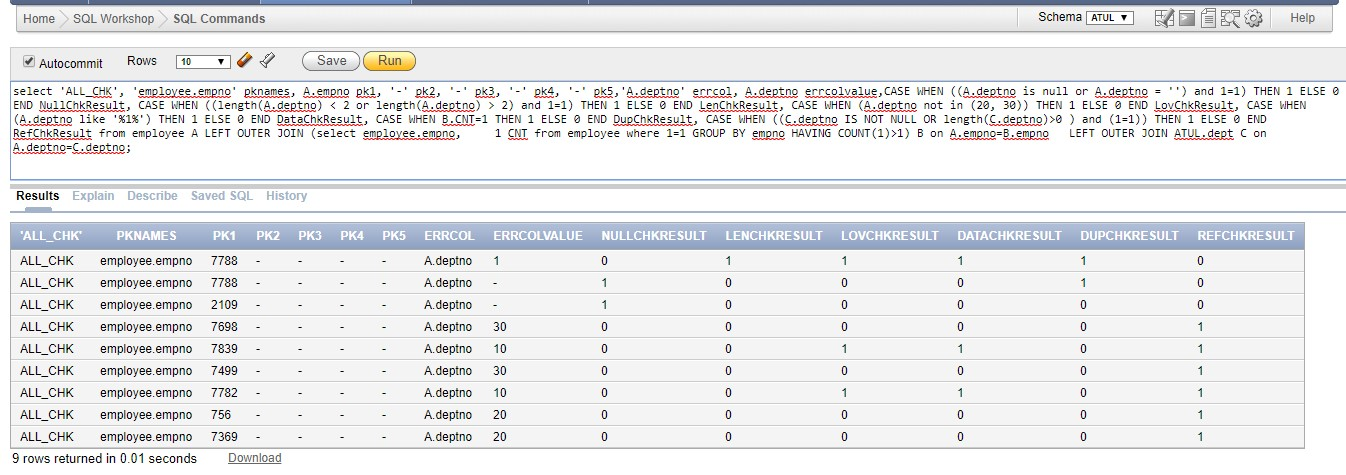
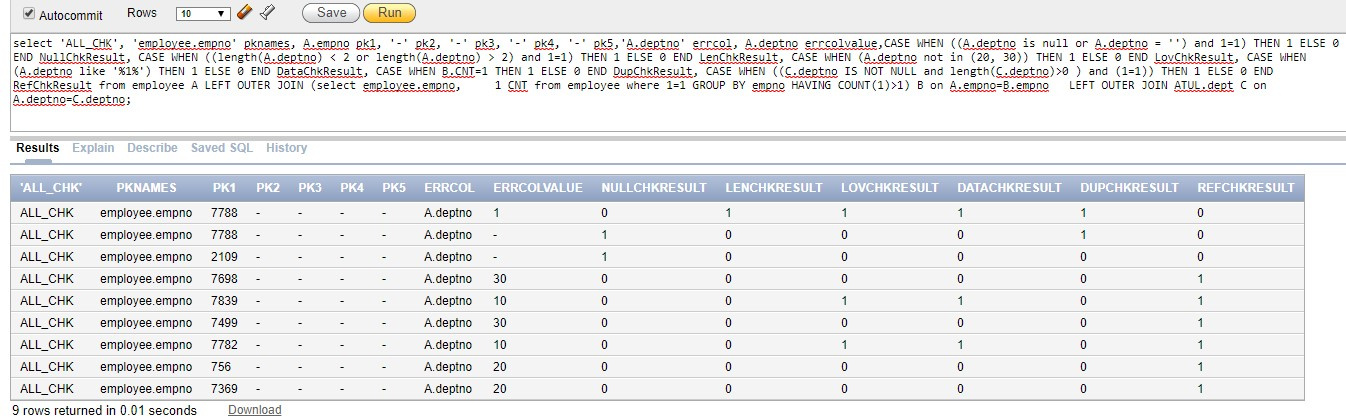
c

diff --git a/DataQuality/Final_Code/AllChk.py b/DataQuality/Final_Code/AllChk.py
@@ -104,7 +104,7 @@ def RefChkCase(RefChk,RefFtrRule, errcol, LkpTblNm, LkpTblKeyCustSQL, LkpCustSQL
         return -1
     else:
         RefFtrRule = '1=1' if len(RefFtrRule)==0 else RefFtrRule
-        ref_Case =  'CASE WHEN (('+tabAlias+"."+LkpTblKeyCustSQL+' IS NOT NULL OR length('+tabAlias+"."+LkpTblKeyCustSQL+")>0 ) and ("+RefFtrRule+")) THEN 1 ELSE 0 END" if LkpCustSQL=='L' else 'CASE WHEN (( '+tabAlias+"."+CustSQLTblNmCustSqlKey+' IS NULL OR '+tabAlias+"."+CustSQLTblNmCustSqlKey+"='' ) and (1=1)) THEN 1 ELSE 0 END"
+        ref_Case =  'CASE WHEN (('+tabAlias+"."+LkpTblKeyCustSQL+' IS NOT NULL and length('+tabAlias+"."+LkpTblKeyCustSQL+")>0 ) and ("+RefFtrRule+")) THEN 1 ELSE 0 END" if LkpCustSQL=='L' else 'CASE WHEN (( '+tabAlias+"."+CustSQLTblNmCustSqlKey+' IS NULL OR '+tabAlias+"."+CustSQLTblNmCustSqlKey+"='' ) and (1=1)) THEN 1 ELSE 0 END"
         ref_table = LkpTblSchema+"."+LkpTblNm+' '+tabAlias+' on '+ errcol+'='+tabAlias+"."+LkpTblKeyCustSQL if LkpCustSQL=='L' else ' ('+ Cust_Sql +') '+tabAlias+ ' on ( '+ errcol +'='+tabAlias+"."+CustSQLTblNmCustSqlKey+")"
         return ref_table,ref_Case
 
